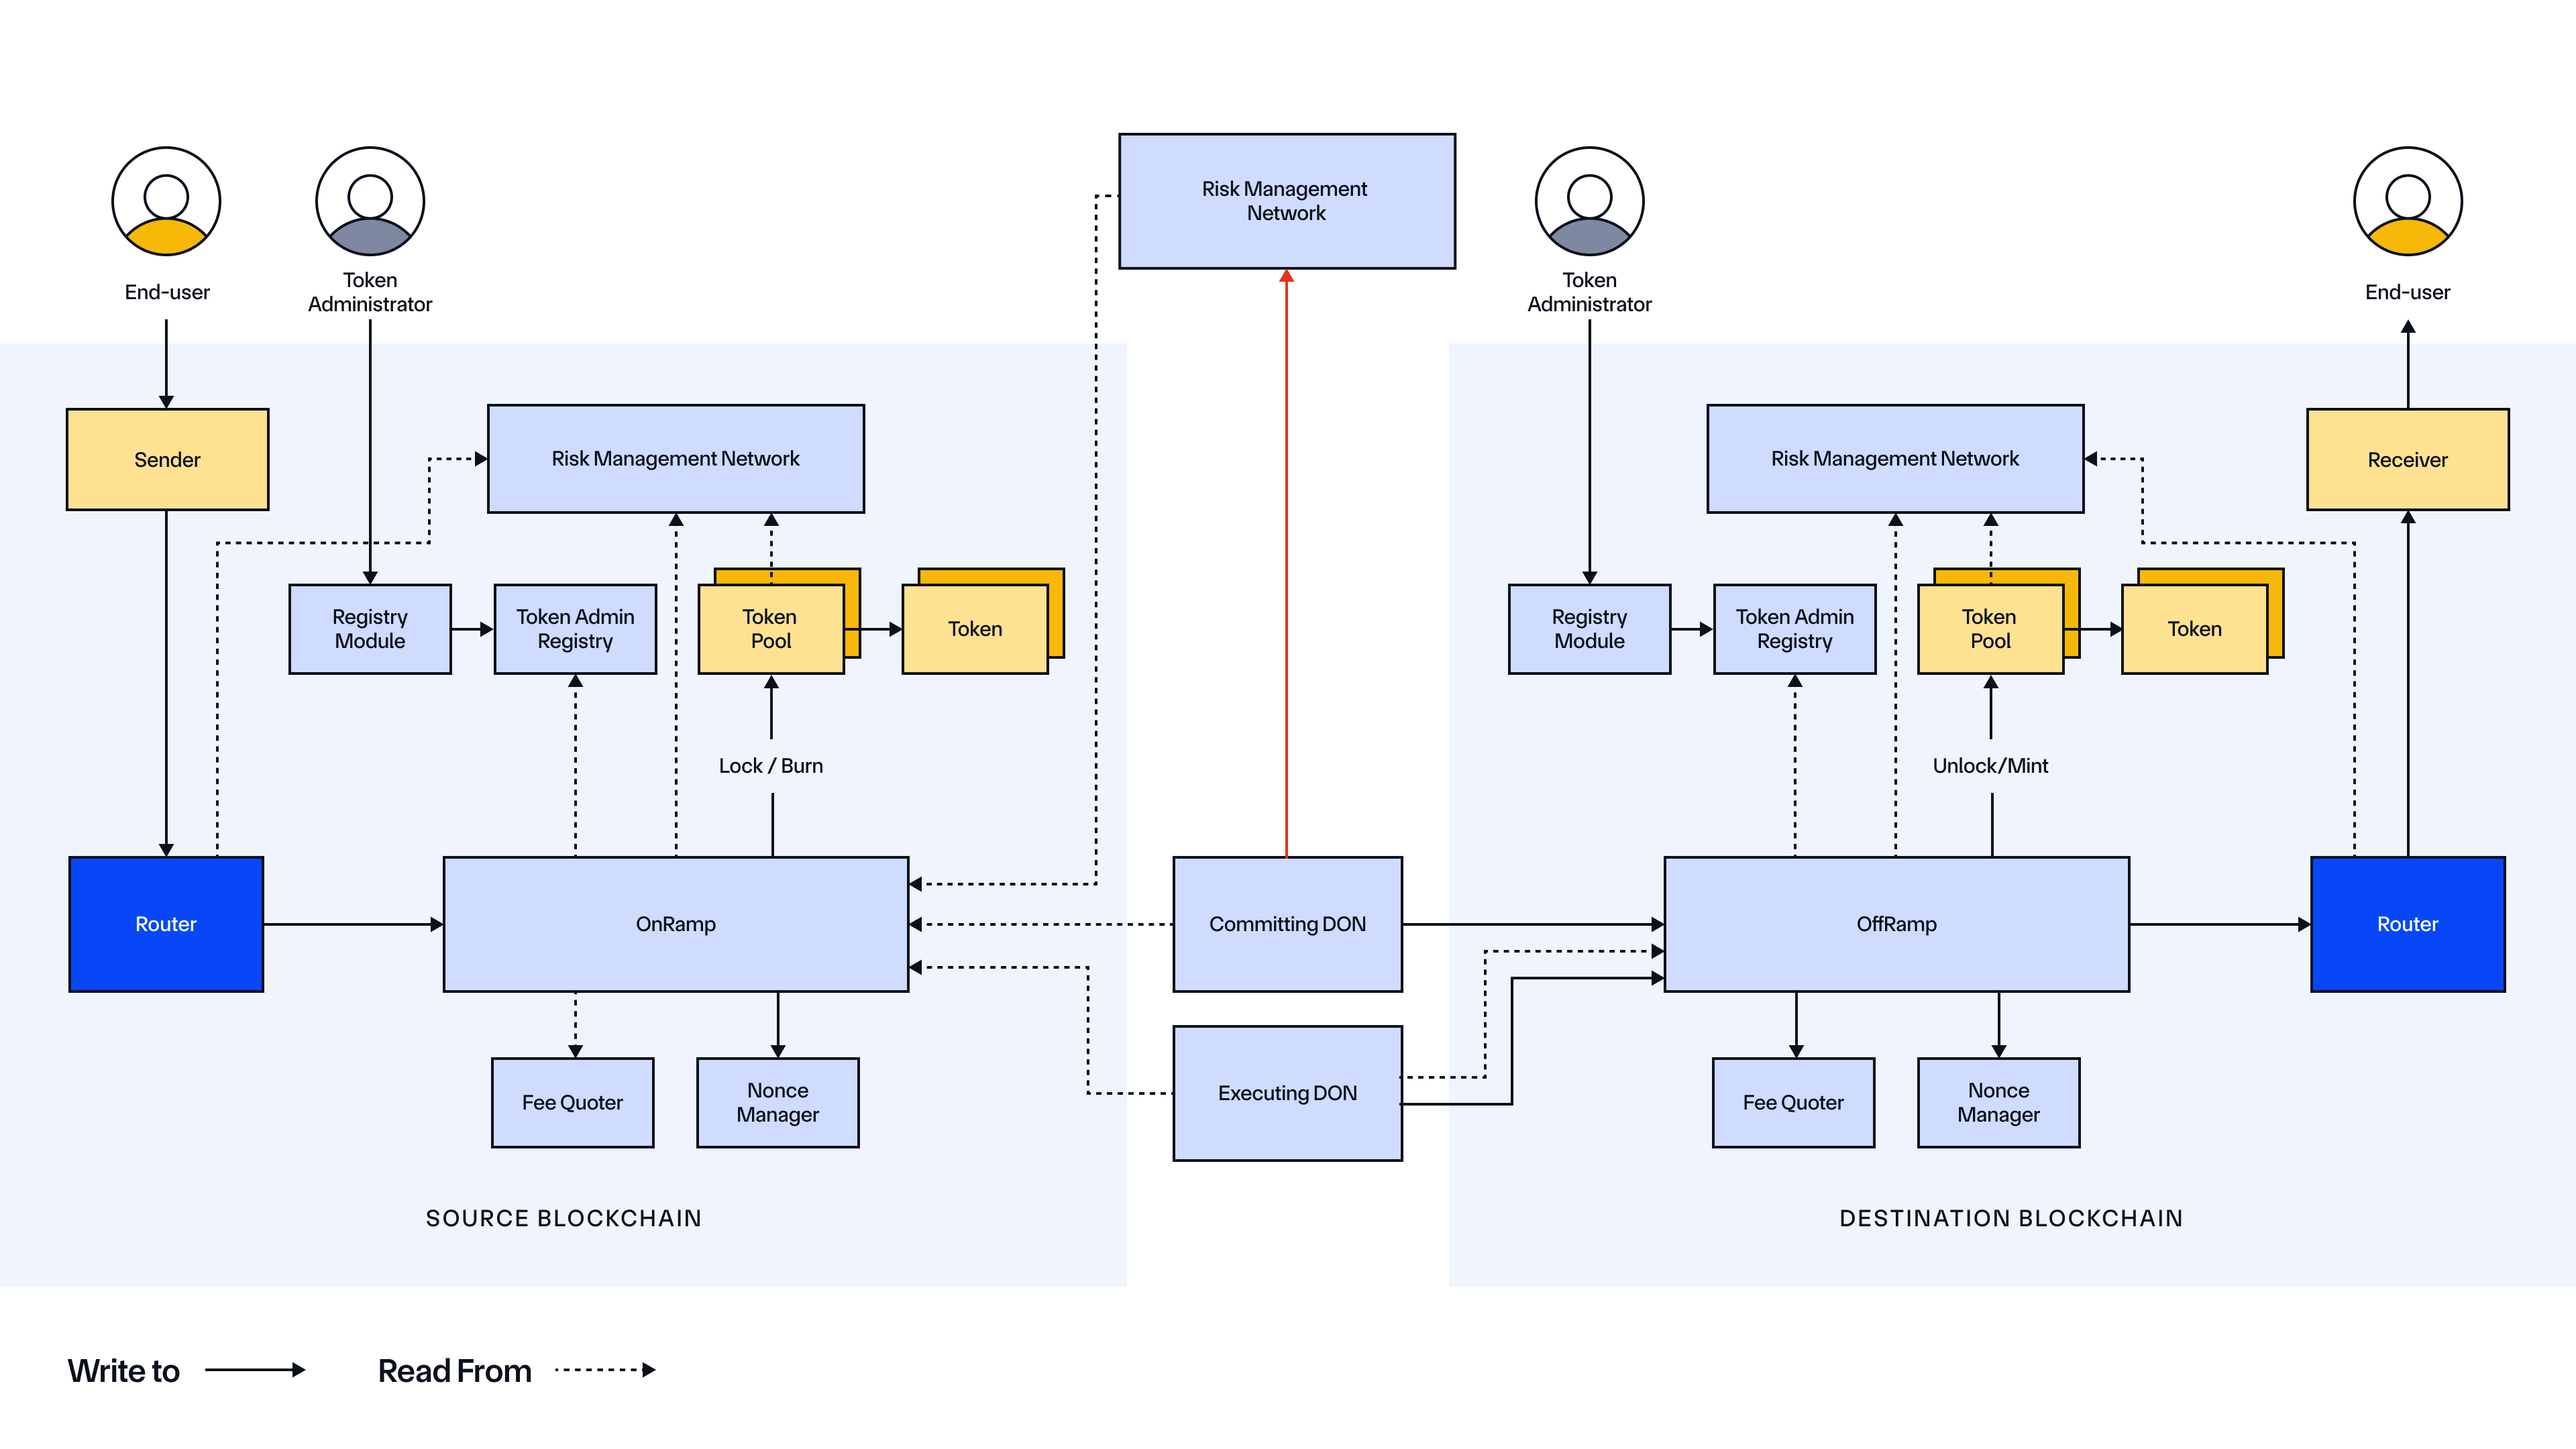
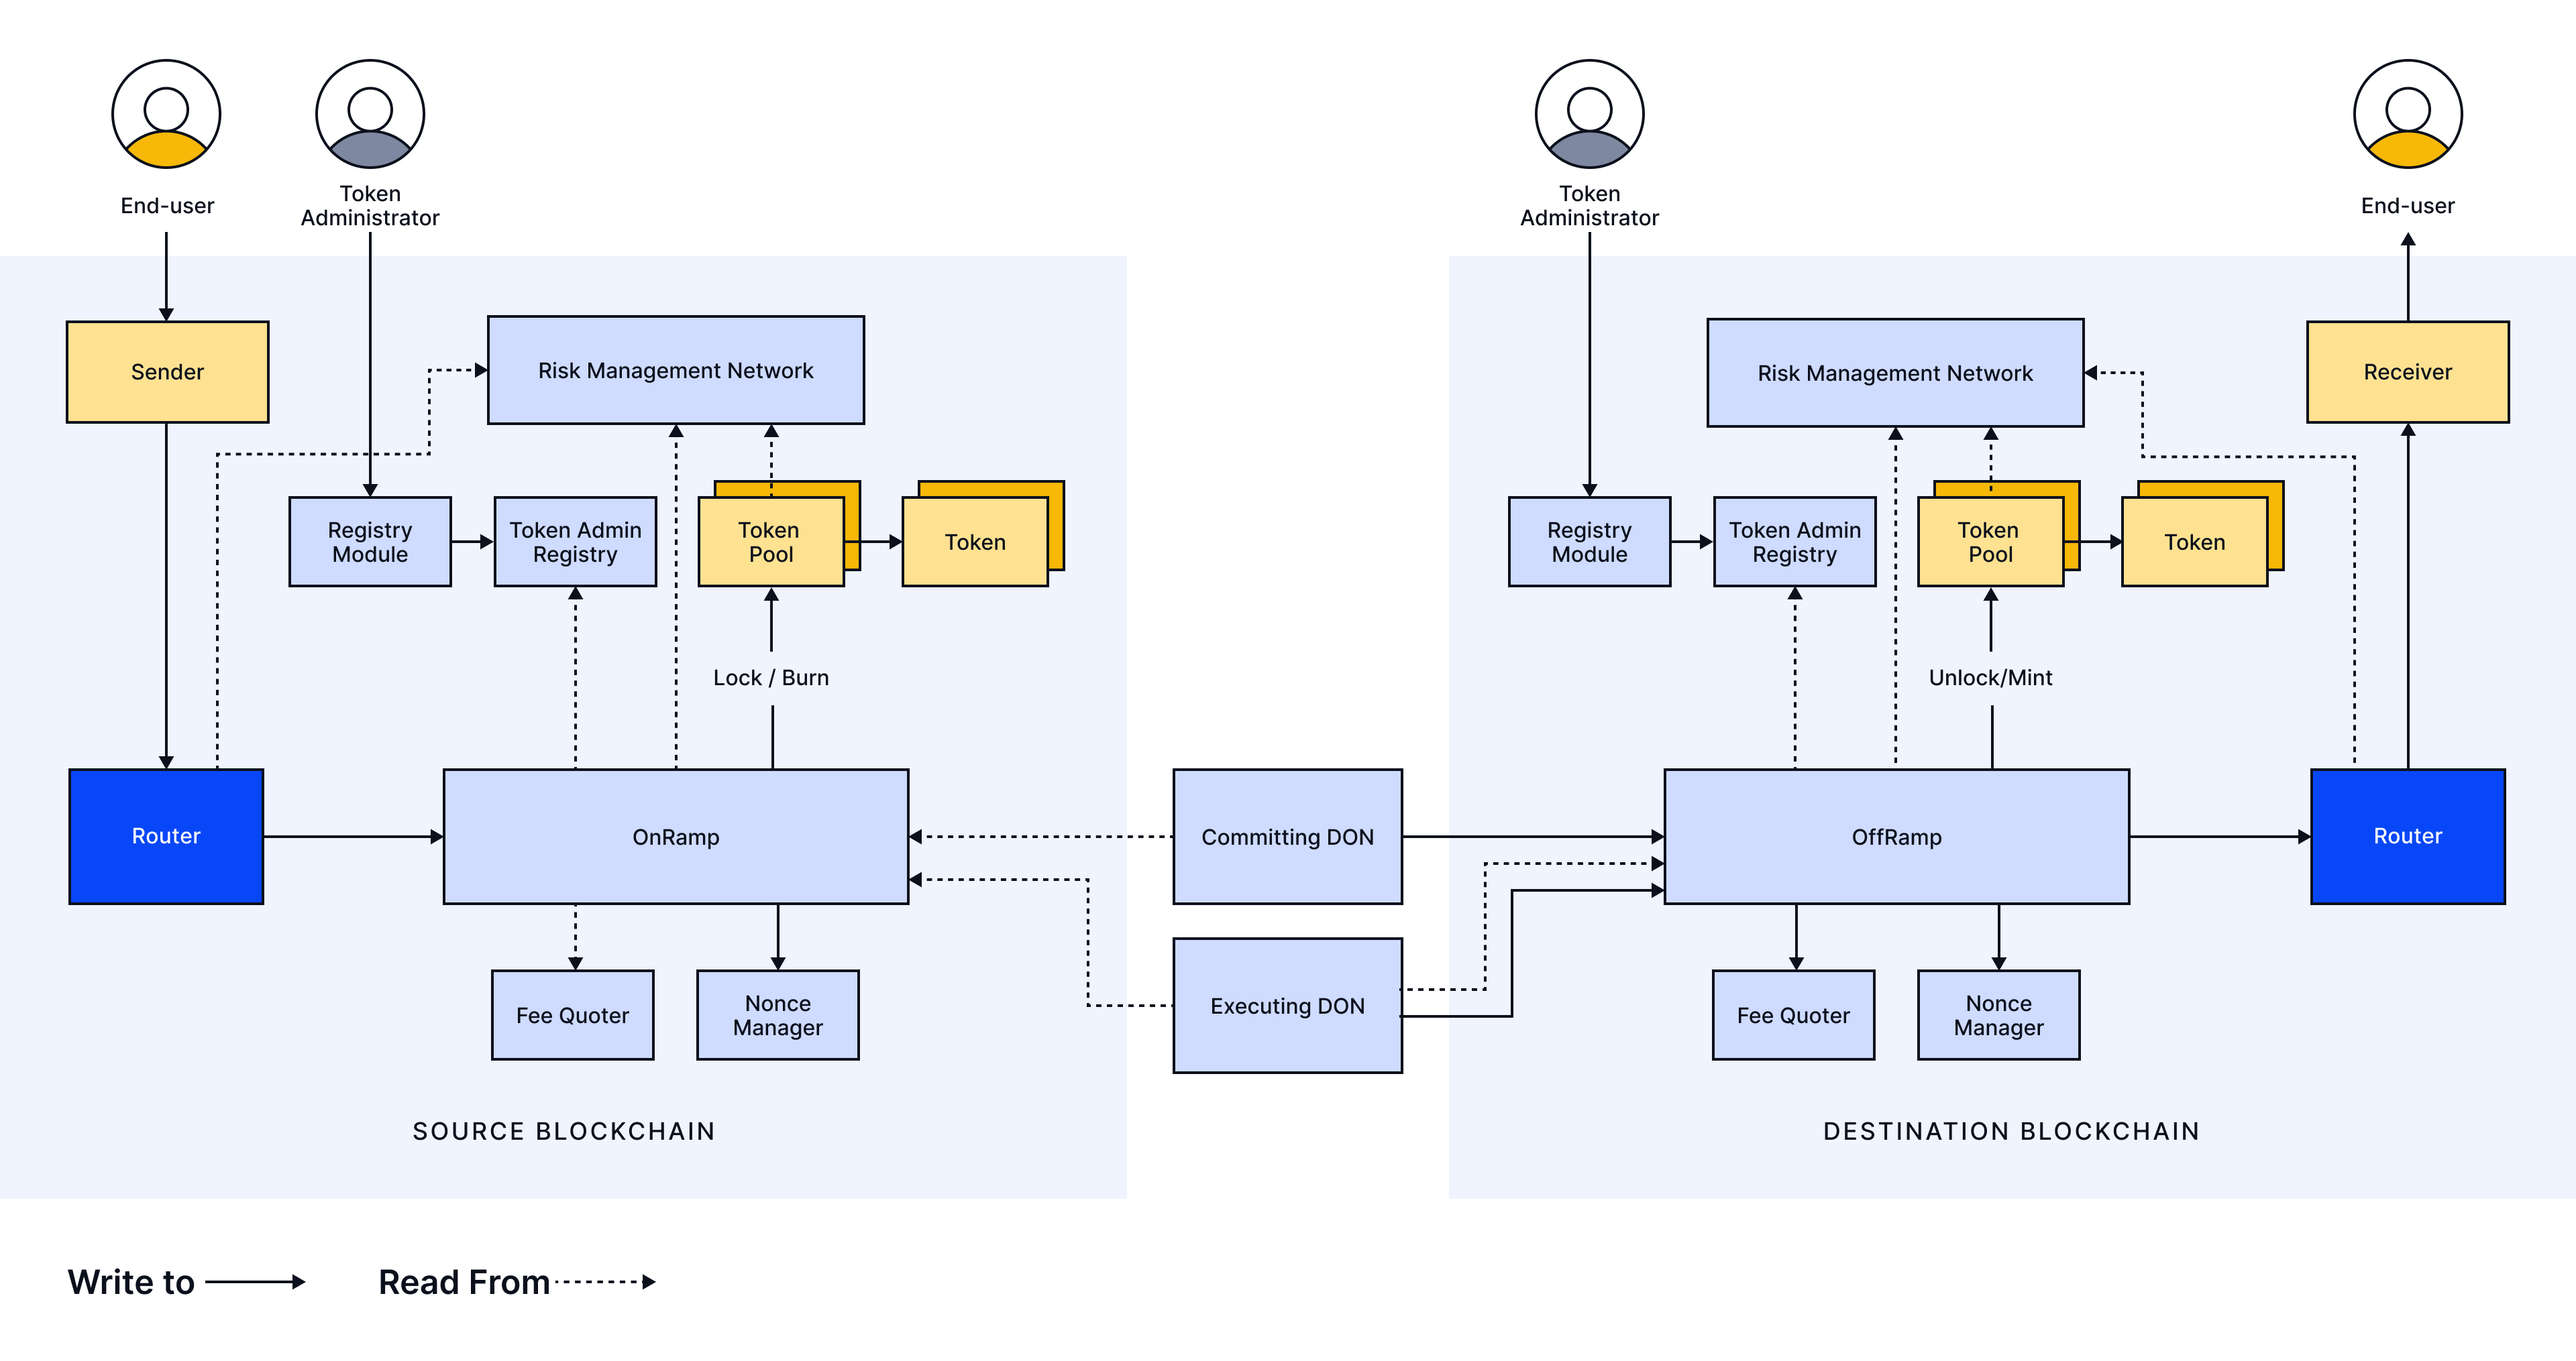
remove rmn blessing references and update diagrams

diff --git a/src/config/sidebar/ccip-dynamic.ts b/src/config/sidebar/ccip-dynamic.ts
@@ -186,10 +186,6 @@ export const CCIP_SIDEBAR_CONTENT: SectionEntry[] = [
             title: "Overview",
             url: "ccip/concepts/architecture/offchain/overview",
           },
-          {
-            title: "Risk Management Network",
-            url: "ccip/concepts/architecture/offchain/risk-management-network",
-          },
         ],
       },
       {
